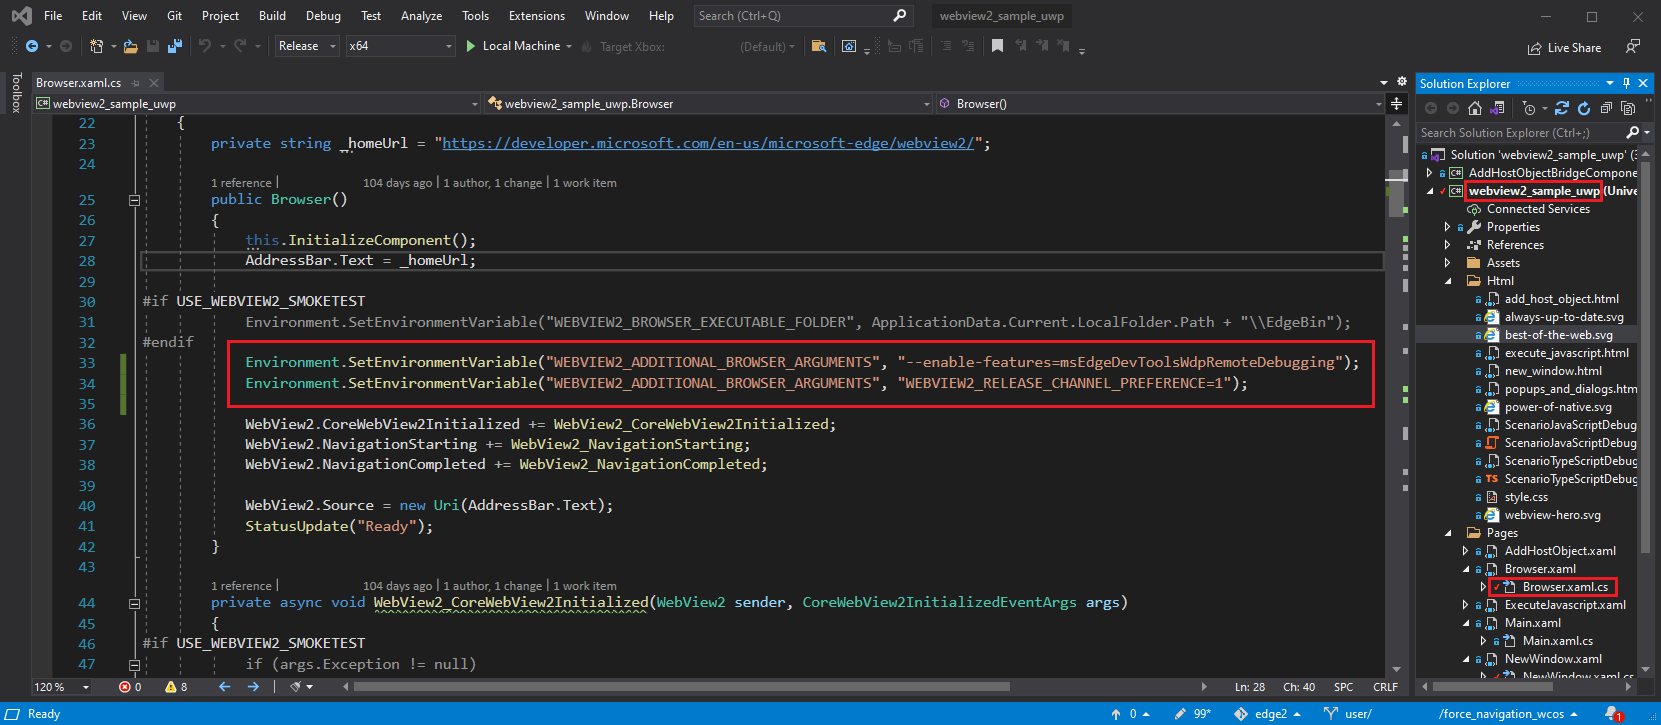
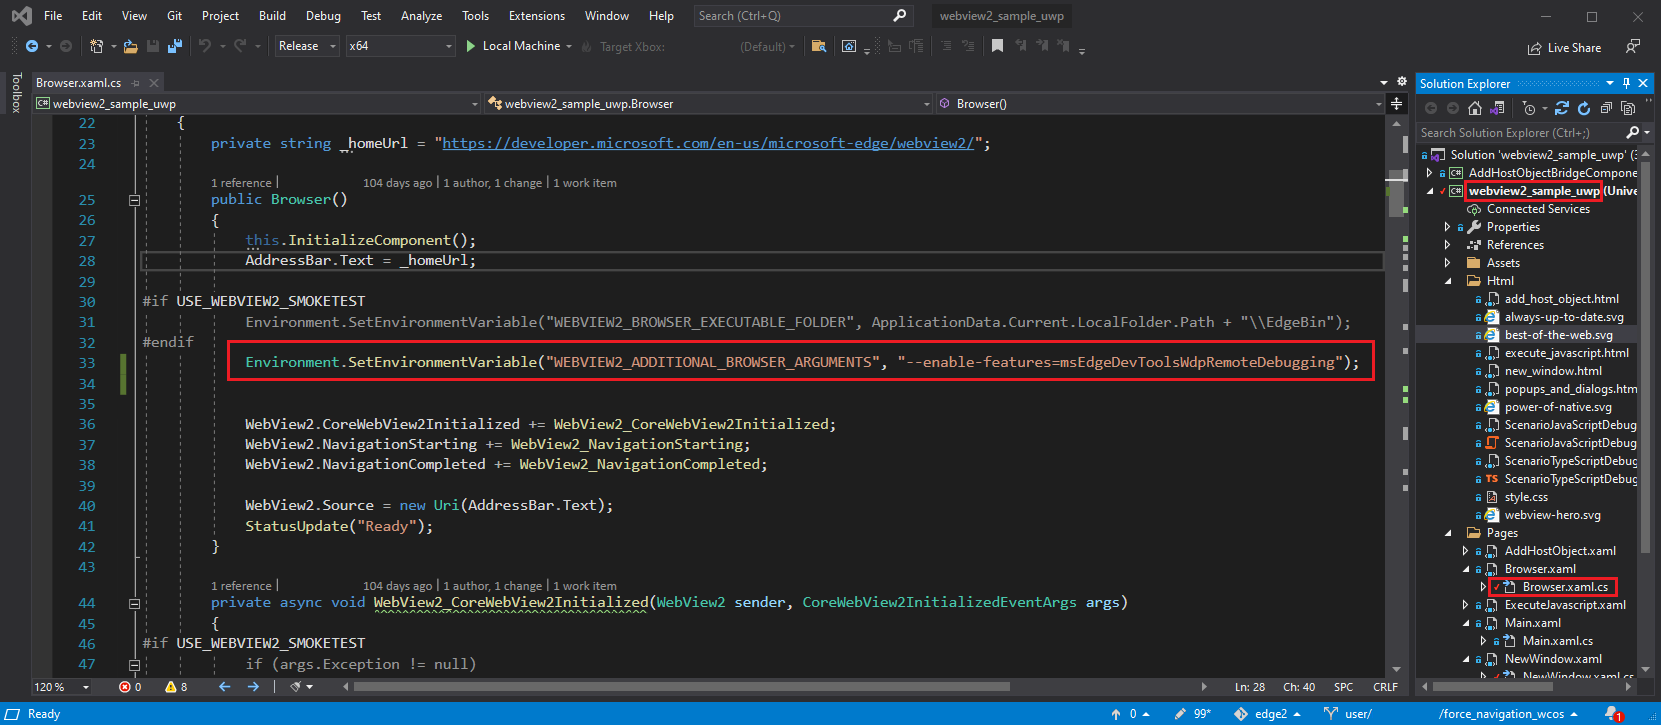
Remove setting release channel preference

Changed region(s): [[0.1228, 0.5159, 0.829, 0.5766], [0.0614, 0.5462, 0.0921, 0.5766]]

diff --git a/microsoft-edge/webview2/how-to/remote-debugging.md b/microsoft-edge/webview2/how-to/remote-debugging.md
@@ -62,21 +62,19 @@ Attach Microsoft Edge DevTools remotely to a WebView2 WinUI 2 (UWP) app as follo
 
     To enable remote debugging, two environment variables must be set in your project.  These variables must be set before creating the `CoreWebView2` instance, and before either setting the `WebView2.Source` property or calling the `WebView2.EnsureCoreWebView2Async` method.
 
-    Set the following variables:
+    Set the following variable:
 
     ```
     "WEBVIEW2_ADDITIONAL_BROWSER_ARGUMENTS", "--enable-features=msEdgeDevToolsWdpRemoteDebugging"
-    "WEBVIEW2_ADDITIONAL_BROWSER_ARGUMENTS", "WEBVIEW2_RELEASE_CHANNEL_PREFERENCE=1"
     ```
     
-    For example, if you're using the [WebView2 Sample UWP app](https://github.com/MicrosoftEdge/WebView2Samples/tree/main/SampleApps/webview2_sample_uwp), you can set the environment variables by adding the following lines in the `Browser.xaml.cs` file:
+    For example, if you're using the [WebView2 Sample UWP app](https://github.com/MicrosoftEdge/WebView2Samples/tree/main/SampleApps/webview2_sample_uwp), you can set the environment variables by adding the following line in the `Browser.xaml.cs` file:
     
     ```csharp
     Environment.SetEnvironmentVariable("WEBVIEW2_ADDITIONAL_BROWSER_ARGUMENTS", "--enable-features=msEdgeDevToolsWdpRemoteDebugging");
-    Environment.SetEnvironmentVariable("WEBVIEW2_ADDITIONAL_BROWSER_ARGUMENTS", "WEBVIEW2_RELEASE_CHANNEL_PREFERENCE=1");
     ```
 
-    The lines are numbered 33 and 34 in this screenshot, in the `Browser()` constructor, below an `#endif` that wraps an existing `SetEnvironmentVariable` statement:
+    The line is numbered 33 in this screenshot, in the `Browser()` constructor, below an `#endif` that wraps an existing `SetEnvironmentVariable` statement:
 
     ![Browser Arguments Remote Debugging](./remote-debugging-images/browser-arguments-remote-debugging.png)
 
